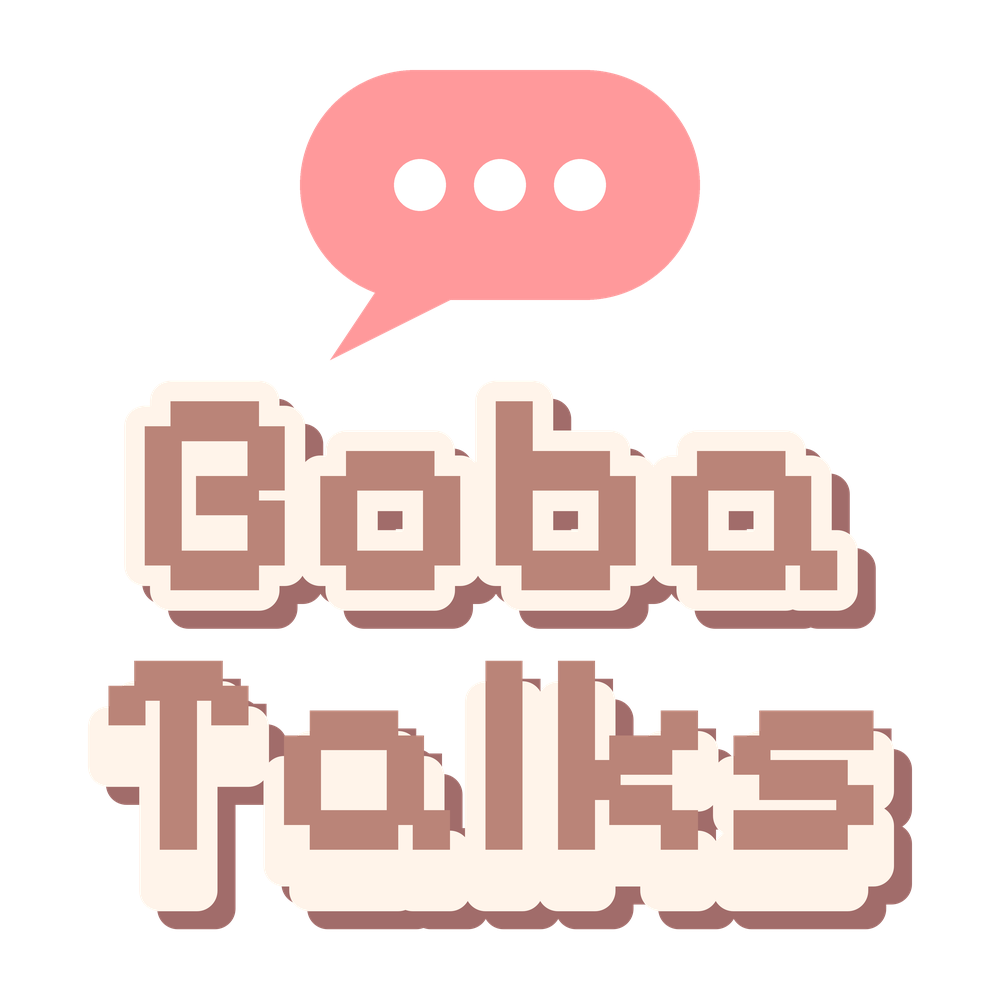
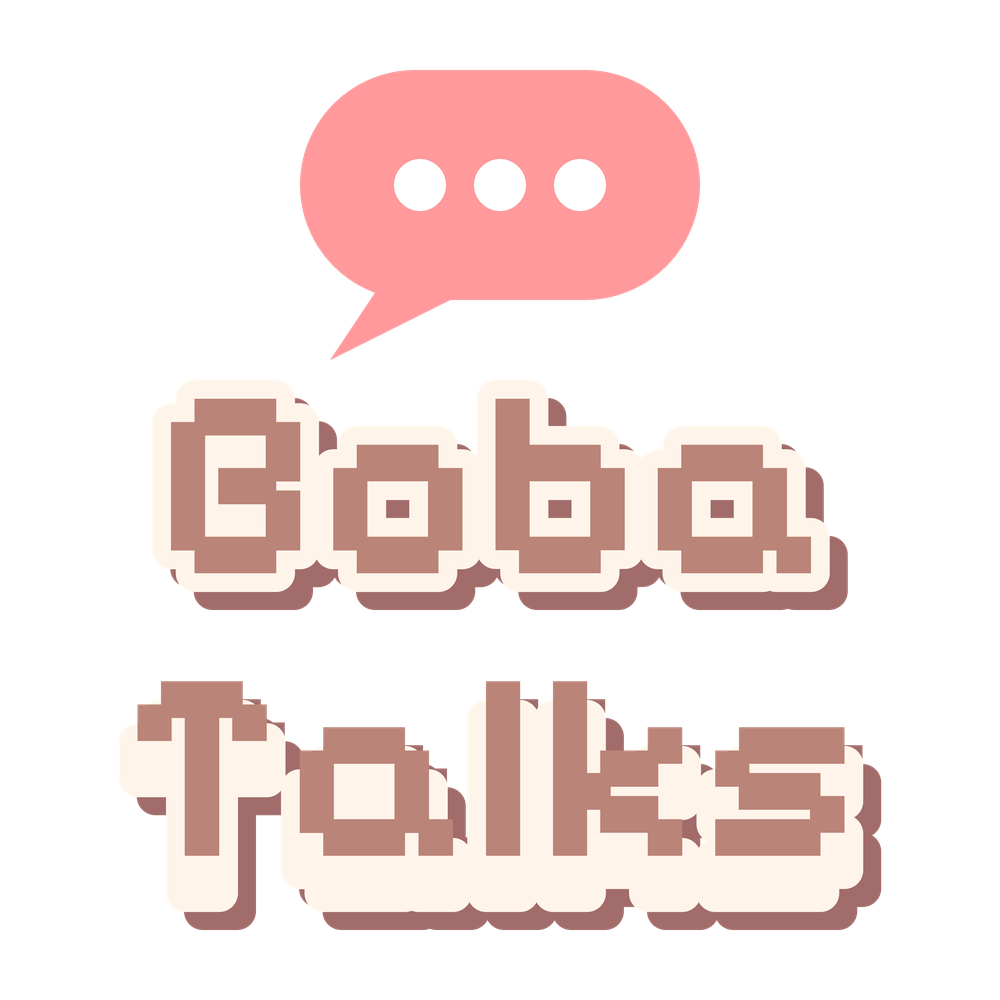
Art: make_ads uses only the game's pixel font (no macOS font lookups)

diff --git a/game/art/make_ads.py b/game/art/make_ads.py
@@ -16,47 +16,30 @@ from PIL import Image, ImageChops, ImageColor, ImageDraw, ImageFilter, ImageFont
 
 OUT = Path(__file__).resolve().parent / "ads"
 SS = 4  # supersampling factor
-SUP = "/System/Library/Fonts/Supplemental/"
-SYS = "/System/Library/Fonts/"
 
 
 # ---------------------------------------------------------------- fonts
 
 def font_spec(*candidates):
-    """First existing (path, index, variation) candidate."""
-    for cand in candidates:
-        path, index, *var = cand
+    """First existing (path, index) candidate."""
+    for path, index in candidates:
         if Path(path).exists():
-            return (path, index, var[0] if var else None)
+            return (path, index)
     raise FileNotFoundError(f"no font found among {candidates}")
 
 
-ARIAL = font_spec((SUP + "Arial.ttf", 0), (SYS + "Helvetica.ttc", 0))
-ARIAL_BOLD = font_spec((SUP + "Arial Bold.ttf", 0), (SYS + "Helvetica.ttc", 1))
-ARIAL_BLACK = font_spec((SUP + "Arial Black.ttf", 0), (SUP + "Arial Bold.ttf", 0))
-HELV_BOLD = font_spec((SYS + "Helvetica.ttc", 1), (SUP + "Arial Bold.ttf", 0))
-GEORGIA = font_spec((SUP + "Georgia.ttf", 0), (SUP + "Georgia Bold.ttf", 0))
-GEORGIA_BOLD = font_spec((SUP + "Georgia Bold.ttf", 0), (SUP + "Georgia.ttf", 0))
-SCRIPT = font_spec((SUP + "SnellRoundhand.ttc", 2), (SUP + "SnellRoundhand.ttc", 0),
-                   (SUP + "Georgia Bold Italic.ttf", 0))
-FUTURA = font_spec((SUP + "Futura.ttc", 0), (SYS + "Helvetica.ttc", 0))
-ROUNDED = font_spec((SYS + "SFNSRounded.ttf", 0, b"Black"), (SUP + "Arial Black.ttf", 0))
-ROUNDED_BOLD = font_spec((SYS + "SFNSRounded.ttf", 0, b"Bold"), (SYS + "Helvetica.ttc", 1))
-
 # Pixel art (docs/superpowers/specs/2026-09-12-blender-houses-design.md): every sign is lettered in the game's own
 # bold Pixelify Sans (game/public/fonts, glyphs fixed for small sizes), so text survives the sprite pixel pass as
-# crisp pixels and matches the UI. The names above stay so call sites read the same.
+# crisp pixels and matches the UI. The names below stay so call sites read the same as when each sign carried its
+# own system font.
 PIXEL = font_spec((str(Path(__file__).resolve().parents[1] / "public" / "fonts" / "pixelify-sans-bold.ttf"), 0))
 ARIAL = ARIAL_BOLD = ARIAL_BLACK = HELV_BOLD = GEORGIA = GEORGIA_BOLD = SCRIPT = FUTURA = ROUNDED = ROUNDED_BOLD = PIXEL
 
 
 @lru_cache(maxsize=4096)
 def load(spec, size):
-    path, index, var = spec
-    f = ImageFont.truetype(path, size, index=index)
-    if var:
-        f.set_variation_by_name(var)
-    return f
+    path, index = spec
+    return ImageFont.truetype(path, size, index=index)
 
 
 def fit_text(draw, text, font_path, box, max_size=10_000, align="left", valign="center",
@@ -239,7 +222,7 @@ class Sign:
 
     # -- finishing
 
-    def weather(self, lo, hi, seed_size=(40, 28)):
+    def weather(self, lo, hi):
         """Fade paint evenly to the middle of lo..hi. Pixel art has no soft wear patches or grain,
         which the pixel pass would turn into speckles."""
         mid = (lo + hi) / 2
@@ -683,8 +666,7 @@ def mu_bobatalks():
         cx = 420 + i * 80
         with s.paint("white", "dot") as p:
             p.ellipse((cx - 26, 185 - 26, cx + 26, 185 + 26))
-    pl = s.fit("Boba\nTalks", ROUNDED, (70, 380, 930 - 18, 930 - 18), align="center",
-               stroke=0.07, spacing=-0.04)
+    pl = s.fit("Boba\nTalks", ROUNDED, (70, 380, 930 - 18, 930 - 18), align="center", stroke=0.07)
     s.draw_text(pl, "#A16C6A", stroke_fill="#A16C6A", offset=(18, 18))  # painted depth
     s.draw_text(pl, "#BA8478", stroke_fill="#FFF4EA")
     s.finish()
